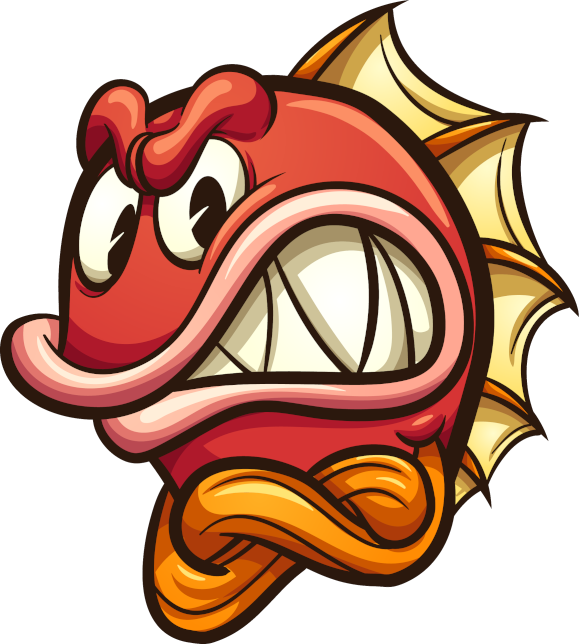
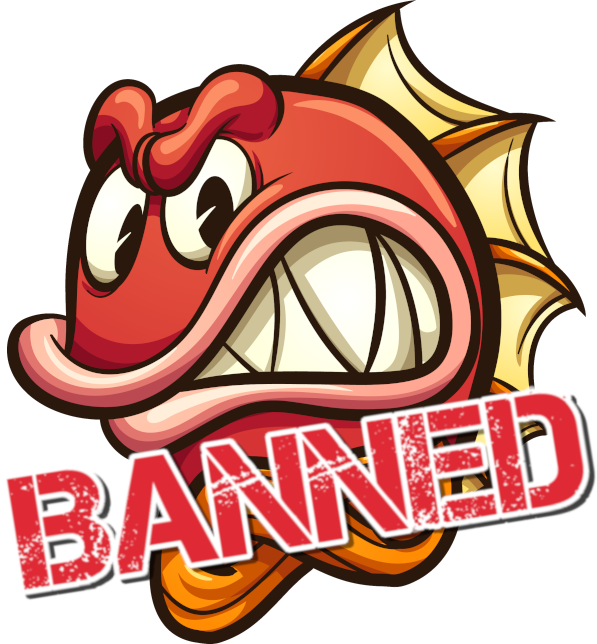
made banned users feel bad

diff --git a/src/main/resources/templates/partials.html b/src/main/resources/templates/partials.html
@@ -31,6 +31,21 @@
         </div>
     </nav>
 
+    <nav th:fragment="banned-navbar" class="darkness">
+        <div class="nav-wrapper">
+            <div class="container">
+                <a href="/" class="brand-logo"><img src="../static/img/anger_fish.png" th:src="@{/img/anger_fish.png}" alt="anger fish" class="anger-fish" /></a>
+                <ul id="nav-mobile" class="right hide-on-med-and-down">
+                    <li sec:authorize="isAuthenticated()">
+                        <form th:action="@{/logout}" th:method="post" id="form1">
+                            <a class="darkness-link" onclick="document.getElementById('form1').submit();"><ion-icon name="ios-log-out"></ion-icon>  Log-Out</a>
+                        </form>
+                    </li>
+                </ul>
+            </div>
+        </div>
+    </nav>
+
     <footer th:fragment="footer" class="page-footer colorado-e3">
         <div class="container">
             <div class="row">
@@ -50,6 +65,32 @@
         </div>
         <div class="footer-copyright indigo darken-4">
             <div class="container facebook-800-text">
+                Codeup 2019. For educational purposes only.
+            </div>
+        </div>
+    </footer>
+
+    <footer th:fragment="banned-footer" class="page-footer darkness">
+        <div class="container">
+            <div class="row">
+                <div class="col l6 s12">
+                    <h5 class="eighty-eight-ninety-six">Tuuna Music Maker</h5>
+                    <p class="eighty-eight-ninety-six">Tuuna Music Maker was made as a way to share music compositions between friends. But then you had to be a jerk and get banned!</p>
+                </div>
+                <div class="col l4 offset-l2 s12">
+                    <h5 class="eighty-eight-ninety-six">Links</h5>
+                    <ul>
+                        <li sec:authorize="isAuthenticated()">
+                            <form th:action="@{/logout}" th:method="post" id="form1">
+                                <a class="darkness-link" onclick="document.getElementById('form1').submit();"><ion-icon name="ios-log-out"></ion-icon>  Log-Out</a>
+                            </form>
+                        </li>
+                    </ul>
+                </div>
+            </div>
+        </div>
+        <div class="footer-copyright grey">
+            <div class="container darkness-font">
                 Codeup 2019. For educational purposes only.
             </div>
         </div>

diff --git a/src/main/resources/templates/banned.html b/src/main/resources/templates/banned.html
@@ -1,10 +1,25 @@
 <!DOCTYPE html>
-<html lang="en">
-<head>
-    <meta charset="UTF-8">
-    <title>Title</title>
-</head>
-<body>
-
+<html xmlns:th="http://www.thymeleaf.org">
+<head th:replace="partials :: head ('Ban a User')" />
+<body class="bad-main">
+<nav th:replace="partials :: banned-navbar" />
+<header></header>
+<main class="container">
+    <div class="card grey">
+        <div class="card-image">
+            <img src="../static/img/tuuna-bar-4.png" th:src="@{/img/tuuna-bar-4.png}" alt="greyscale bar" />
+        </div>
+        <div class="card-content darkness-font">
+            <h3 class="card-title">
+                You were banned.
+            </h3>
+            <p>Your account has been banned. You are unable to access any content on this site, please leave.</p>
+        </div>
+    </div>
+</main>
+<footer th:replace="partials :: banned-footer" />
+<script th:replace="partials :: m-script" />
+<script th:replace="partials :: j-query" />
+<script th:replace="partials :: i-icons" />
 </body>
 </html>

diff --git a/src/main/resources/templates/admin/ban-user.html b/src/main/resources/templates/admin/ban-user.html
@@ -13,8 +13,8 @@
             <h3 class="card-title">
                 Are you sure you wish to ban this user?
             </h3>
-            <p>Once you ban a user, there's no going back. This is a permanent action.</p>
-            <form action="" th:action="@{/admin/{id}/ban(id=${id})}" method="post" th:object="${user}">
+            <p>Once a user is banned, they can no longer access the website through their account. Once this action is done, it will not be possible to un-ban them.</p>
+            <form action="" th:action="@{/admin/{id}/ban-user(id=${id})}" method="post" th:object="${user}">
                 <button type="submit" value="submit" class="waves-effect waves-yellow btn-small down-for-tonight"><ion-icon name="thumbs-up"></ion-icon>  Yes</button>
                 <a class="waves-effect waves-teal btn-small bluer-back" th:href="@{/users/{id}(id=${id})}"><ion-icon name="thumbs-down"></ion-icon>  No</a>
             </form>

diff --git a/src/main/resources/static/css/master.css b/src/main/resources/static/css/master.css
@@ -136,3 +136,29 @@ body {
 main {
     flex: 1 0 auto;
 }
+
+.darkness {
+    background-color: #231f20;
+    color: #889696;
+}
+
+a.darkness-link {
+    color: #889696;
+}
+
+a.darkness-link:hover {
+    color: #df2935;
+}
+
+.darkness-font {
+    color: #231f20;
+}
+
+.bad-main {
+    font-family: 'Fira Sans Condensed', sans-serif;
+    background-color: #231f20;
+}
+
+.anger-fish {
+    max-height: 64px;
+}

diff --git a/src/main/java/com/codeup/tuuna/Controllers/HomeController.java b/src/main/java/com/codeup/tuuna/Controllers/HomeController.java
@@ -7,6 +7,7 @@ import com.codeup.tuuna.Repositories.RatingRepository;
 import com.codeup.tuuna.Repositories.SongRepository;
 import com.codeup.tuuna.Repositories.UserRepository;
 import com.google.common.collect.Lists;
+import org.springframework.security.core.context.SecurityContextHolder;
 import org.springframework.stereotype.Controller;
 import org.springframework.ui.Model;
 import org.springframework.web.bind.annotation.GetMapping;
@@ -37,6 +38,12 @@ public class HomeController {
 
     @GetMapping("/")
     public String homePage(Model model) {
+        if (!SecurityContextHolder.getContext().getAuthentication().getPrincipal().equals("anonymousUser")) {
+            User user = (User) SecurityContextHolder.getContext().getAuthentication().getPrincipal();
+            if (user.isBanned()) {
+                return "redirect:/you-got-banned";
+            }
+        }
         List<Song> recentSongs = Lists.newArrayList(songDao.findAll());
         if (recentSongs.size() > 0) {
             Collections.reverse(recentSongs);
@@ -93,11 +100,23 @@ public class HomeController {
 
     @GetMapping("/about-us")
     public String aboutUs() {
+        if (!SecurityContextHolder.getContext().getAuthentication().getPrincipal().equals("anonymousUser")) {
+            User user = (User) SecurityContextHolder.getContext().getAuthentication().getPrincipal();
+            if (user.isBanned()) {
+                return "redirect:/you-got-banned";
+            }
+        }
         return "about-us";
     }
 
     @GetMapping("/search")
     public String getSearchForm() {
+        if (!SecurityContextHolder.getContext().getAuthentication().getPrincipal().equals("anonymousUser")) {
+            User user = (User) SecurityContextHolder.getContext().getAuthentication().getPrincipal();
+            if (user.isBanned()) {
+                return "redirect:/you-got-banned";
+            }
+        }
         return "search/index";
     }
 
@@ -166,6 +185,12 @@ public class HomeController {
 
     @GetMapping("/search/results")
     public String showResults(@ModelAttribute (name = "searchResults") ArrayList<Song> searchResults) {
+        if (!SecurityContextHolder.getContext().getAuthentication().getPrincipal().equals("anonymousUser")) {
+            User user = (User) SecurityContextHolder.getContext().getAuthentication().getPrincipal();
+            if (user.isBanned()) {
+                return "redirect:/you-got-banned";
+            }
+        }
         return "search/results";
     }
 }

diff --git a/src/main/java/com/codeup/tuuna/Controllers/UserController.java b/src/main/java/com/codeup/tuuna/Controllers/UserController.java
@@ -34,6 +34,9 @@ public class UserController {
 
     @GetMapping("/register")
     public String showSignupForm(Model model){
+        if (!SecurityContextHolder.getContext().getAuthentication().getPrincipal().equals("anonymousUser")) {
+            return "redirect:/";
+        }
         model.addAttribute("user", new User());
         return "users/register";
     }
@@ -58,7 +61,9 @@ public class UserController {
     @GetMapping("/users/edit")
     public String showUserEditForm(Model model) {
         User user = (User) SecurityContextHolder.getContext().getAuthentication().getPrincipal();
-
+        if (user.isBanned()) {
+            return "redirect:/you-got-banned";
+        }
         user.setPhoneNumber(user.getPhoneNumber().substring(2));
         model.addAttribute("user", user);
         return "users/edit";
@@ -90,6 +95,9 @@ public class UserController {
     @GetMapping("/users/profile")
     public String getProfilePage(Model model) {
         User user = (User) SecurityContextHolder.getContext().getAuthentication().getPrincipal();
+        if (user.isBanned()) {
+            return "redirect:/you-got-banned";
+        }
         List<Song> userSongs = songs.findAllByUserId(((User) SecurityContextHolder.getContext().getAuthentication().getPrincipal()).getId());
         List<Comment> userComments = comments.findAllByUserId(((User) SecurityContextHolder.getContext().getAuthentication().getPrincipal()).getId());
         model.addAttribute("user", SecurityContextHolder.getContext().getAuthentication().getPrincipal());
@@ -102,6 +110,9 @@ public class UserController {
     public String getOtherProfiles(@PathVariable long id, Model model) {
         if (!SecurityContextHolder.getContext().getAuthentication().getPrincipal().equals("anonymousUser")) {
             User currentUser = (User) SecurityContextHolder.getContext().getAuthentication().getPrincipal();
+            if (currentUser.isBanned()) {
+                return "redirect:/you-got-banned";
+            }
             if (currentUser.getId() == id) {
                 return "redirect:/users/profile";
             } else {

diff --git a/src/main/java/com/codeup/tuuna/Controllers/AdminController.java b/src/main/java/com/codeup/tuuna/Controllers/AdminController.java
@@ -36,6 +36,9 @@ public class AdminController {
     public String getBanUserForm(@PathVariable long id, Model model) {
         if (!SecurityContextHolder.getContext().getAuthentication().getPrincipal().equals("anonymousUser")) {
             User currentUser = (User) SecurityContextHolder.getContext().getAuthentication().getPrincipal();
+            if (currentUser.isBanned()) {
+                return "redirect:/you-got-banned";
+            }
             if (currentUser.isAdmin()) {
                 model.addAttribute("user", userDao.findOne(id));
                 return "admin/ban-user";
@@ -62,6 +65,9 @@ public class AdminController {
     public String showPromoteUserForm(@PathVariable long id, Model model) {
         if (!SecurityContextHolder.getContext().getAuthentication().getPrincipal().equals("anonymousUser") || userDao.findOne(id).isAdmin()) {
             User currentUser = (User) SecurityContextHolder.getContext().getAuthentication().getPrincipal();
+            if (currentUser.isBanned()) {
+                return "redirect:/you-got-banned";
+            }
             if (currentUser.isAdmin()) {
                 model.addAttribute("user", userDao.findOne(id));
                 return "admin/promote-user";
@@ -88,6 +94,9 @@ public class AdminController {
     public String showDemoteUserForm(@PathVariable long id, Model model) {
         if (!SecurityContextHolder.getContext().getAuthentication().getPrincipal().equals("anonymousUser") || !userDao.findOne(id).isAdmin()) {
             User currentUser = (User) SecurityContextHolder.getContext().getAuthentication().getPrincipal();
+            if (currentUser.isBanned()) {
+                return "redirect:/you-got-banned";
+            }
             if (currentUser.isAdmin()) {
                 model.addAttribute("user", userDao.findOne(id));
                 return "admin/demote-admin";

diff --git a/src/main/java/com/codeup/tuuna/SecurityConfiguration.java b/src/main/java/com/codeup/tuuna/SecurityConfiguration.java
@@ -44,7 +44,7 @@ public class SecurityConfiguration extends WebSecurityConfigurerAdapter {
                 /* Login configuration */
                 .formLogin()
                 .loginPage("/login")
-                .defaultSuccessUrl("/songs") // user's home page, it can be any URL
+                .defaultSuccessUrl("/users/profile") // user's home page, it can be any URL
                 .permitAll() // Anyone can go to the login page
                 /* Logout configuration */
                 .and()
@@ -62,7 +62,17 @@ public class SecurityConfiguration extends WebSecurityConfigurerAdapter {
                         "/songs/create", // only authenticated users can create ads
                         "/songs/{id}/edit", // only authenticated users can edit ads
                         "/songs/{id}/delete",
-                        "/users/edit"
+                        "/users/edit",
+                        "/users/profile",
+                        "/users/{id}",
+                        "/admin/{id}/ban",
+                        "/admin/{id}/promote",
+                        "/admin/{id}/demote",
+                        "/you-got-banned",
+                        "/comments/{id}/edit",
+                        "/comments/{id}/delete",
+                        "/songs/{id}/flag",
+                        "comments/{id}/flag"
                 )
                 .authenticated()
         ;
